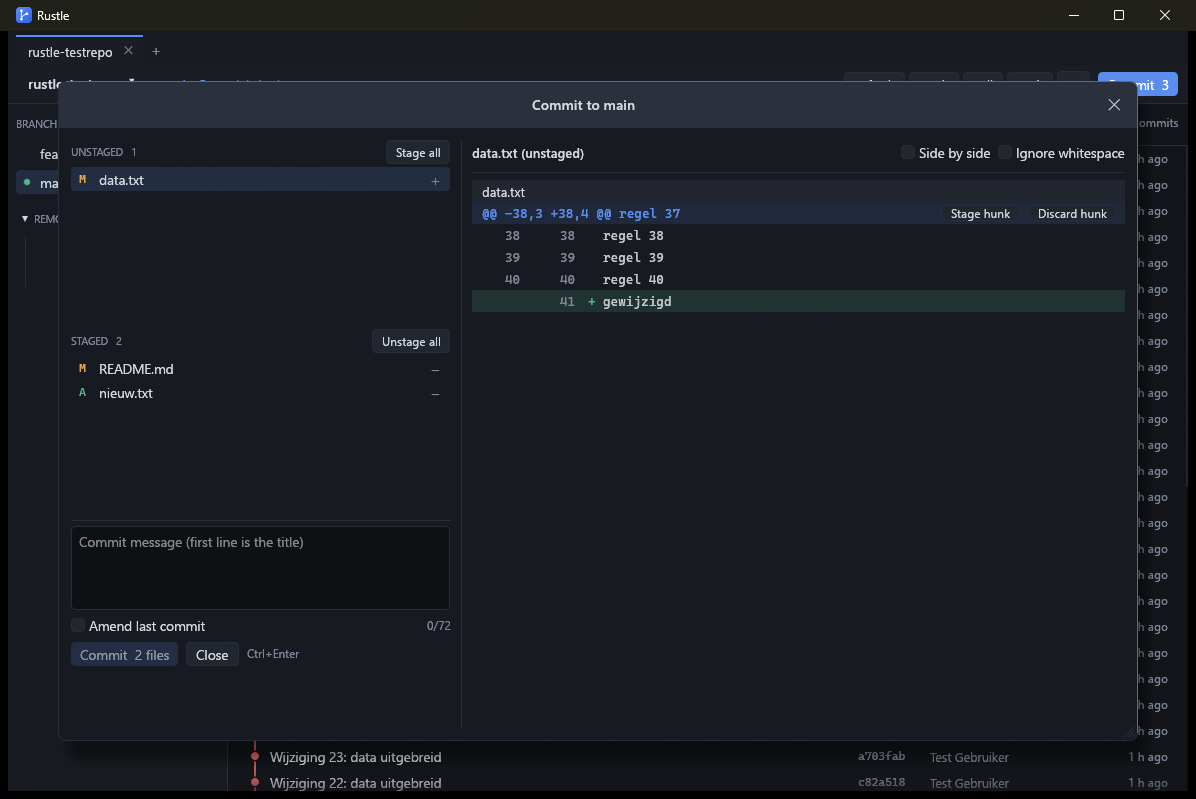
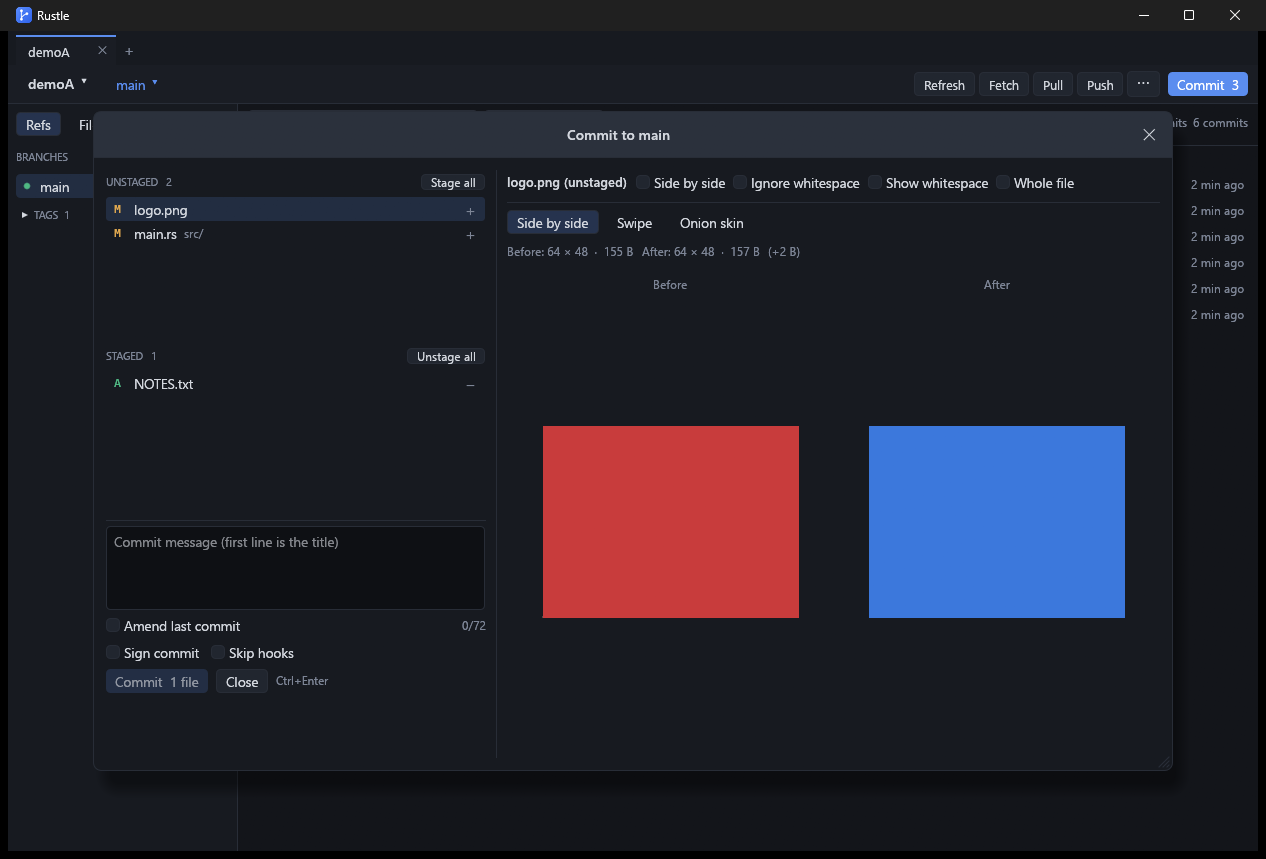
Docs: describe the new features and refresh the screenshots
README feature list, shortcuts, known limitations, changelog and new screenshots (working changes,
image diff, conflict editor, multi-select).

diff --git a/README.md b/README.md
@@ -10,27 +10,36 @@ submodules all behave exactly as they do in a terminal.
 
 ## Features
 
-- **Commit graph** with coloured lanes, branch/tag labels, avatars and relative dates; loads
-  incrementally, so large repositories stay fast.
-- **Search and filter** by message, author, file history and "current branch only".
-- **Commit details:** changed-file list and a diff per file; Ctrl+click a second commit to compare.
-- **Staging:** stage and unstage files, **hunks and single lines**; discard changes; amend;
-  commit message history and `commit.template` support.
-- **Diffs:** syntax highlighting, line numbers, side-by-side view, intra-line highlighting,
-  ignore-whitespace and context-line options.
-- **Branches, tags, stashes, submodules** in the sidebar, with context menus.
+- **Commit graph** with coloured lanes, branch/tag labels and relative dates; loads incrementally, so
+  large repositories stay fast. A **Working changes** row sits on top of HEAD when there are uncommitted changes.
+- **Live:** the view reloads by itself when files or refs change on disk, and a background fetch keeps the
+  push/pull badges per branch current (it never asks for a password).
+- **Search and filter** by message, author, file history and "current branch only"; **search file contents**
+  and browse the **file tree** of the working tree or of any commit, with a syntax-highlighted file viewer.
+- **Several commits at once:** Ctrl/Shift+click to select; squash, cherry-pick, revert or compare them.
+  **Drag** an unpushed commit onto another one to reorder.
+- **Staging:** files, **hunks and single lines**; discard; amend; commit message history and
+  `commit.template`; optional **signing** (GPG or SSH) and "skip hooks"; hook output is shown.
+- **Diffs:** syntax highlighting, line numbers, side-by-side, intra-line highlighting, find in diff,
+  visible whitespace, trailing-whitespace marks, whole-file view, ignore-whitespace and context options,
+  and **image diffs** (side by side, swipe, onion skin).
+- **Conflicts:** banner, a **three-way editor** (ours / base / theirs, per conflict: take either, both,
+  the base or write your own), continue / abort / skip.
+- **Branches, tags, stashes, submodules, worktrees and Git LFS** in the sidebar, with context menus.
+  Per branch: ahead/behind badges, push or publish, fast-forward without checking out.
 - **History editing:** merge, rebase, interactive rebase (reword/squash/fixup/drop/reorder),
   cherry-pick, revert, reset.
-- **Conflicts:** conflict banner, ours/theirs/base view, one-click resolution, continue/abort/skip.
-- **Automatic fetch** in the background (every 5 minutes by default, configurable or off) keeps the
-  push/pull badges per branch current. It never asks for a password: if credentials are needed it
-  fails quietly and marks the Fetch button.
-- **Remotes:** fetch, pull (fast-forward / merge / rebase), push, force push with lease, delete
-  remote branches, push tags; running operations can be **cancelled**.
-- **Authentication prompts** for HTTPS tokens and SSH passphrases (in addition to Git Credential Manager).
-- **Tabs** for several repositories, recent repositories, clone and init; drop a folder on the window to open it.
-- Dark and light theme, adjustable text size, keyboard shortcuts, remembers window position.
+- **Remotes:** fetch, pull (fast-forward / merge / rebase), push, force push with lease, delete remote
+  branches, push tags; running operations can be **cancelled**. A **repository settings** window edits
+  remotes and common git configuration.
+- **Command palette** (Ctrl+K), tabs, recent repositories, clone and init, drag a folder onto the window.
+- Authentication prompts for HTTPS tokens and SSH passphrases (in addition to Git Credential Manager).
+- Dark and light theme, adjustable text size, remembers window position, self-update from GitHub releases.
 - Blame, reflog, open in Explorer / terminal / editor.
+
+![Several commits selected](docs/screenshot-multi.png)
+
+![Three-way conflict editor](docs/screenshot-details.png)
 
 ![Commit window](docs/screenshot-commit.png)
 
@@ -72,6 +81,7 @@ release. Code signing (see `scripts/package.ps1`) would be needed for that.
 
 | Shortcut | Action |
 | --- | --- |
+| `Ctrl+K` | Command palette |
 | `Ctrl+O` | Open a repository |
 | `Ctrl+T` / `Ctrl+W` | New / close tab |
 | `Ctrl+Tab` | Next tab |
@@ -111,11 +121,12 @@ Settings, the recent-repositories list and logs live in `%APPDATA%\Rustle` (`set
 
 ## Known limitations
 
-- Image diffs are not shown (binary files are listed, without a preview).
-- File paths that are not valid UTF-8 can't be staged from the UI.
-- Interactive rebase is limited to the first-parent history of the current branch.
-- The installer script needs [Inno Setup 6](https://jrsoftware.org/isinfo.php) and is not built in CI
-  unless the release workflow runs.
+- Long lines in diffs scroll sideways instead of wrapping.
+- File names that are not valid UTF-8 are preserved on Linux and macOS; on Windows git converts names to UTF-8
+  itself, so the case hardly occurs there.
+- Interactive rebase, squash and reordering work on the first-parent history of the current branch and refuse
+  ranges that contain merge commits.
+- Git LFS features need `git-lfs` to be installed.
 - The updater has only been exercised against a local test server, not against a live GitHub release.
 - Binaries are unsigned unless you provide a certificate (see `scripts/package.ps1`), so Windows
   SmartScreen may warn on first run.

diff --git a/CHANGELOG.md b/CHANGELOG.md
@@ -2,6 +2,15 @@
 
 ## Unreleased
 
+- Live updates: file watcher for the working tree and refs; "Working changes" row in the graph.
+- Per-branch push/publish and fast-forward; hook output and long error details; commit signing (GPG/SSH)
+  and "skip hooks".
+- Several commits: Ctrl/Shift+click, squash, cherry-pick, revert, compare, drag to reorder unpushed commits.
+- Command palette (Ctrl+K); file browser with content search and file viewer; repository settings
+  (remotes, git configuration).
+- Image diffs, three-way conflict editor, find in diff, whole-file view, visible whitespace and
+  whitespace-only change markers.
+- Worktrees, submodule actions, Git LFS tracking; lossless handling of non-UTF-8 paths.
 - Self-update: daily check against GitHub releases, "Update now" downloads, verifies the checksum,
   replaces the executable and restarts. Can be switched off in Settings.
 - Per-branch push/pull badges (ahead/behind, `local`, `gone`) in the sidebar and branch menu.
